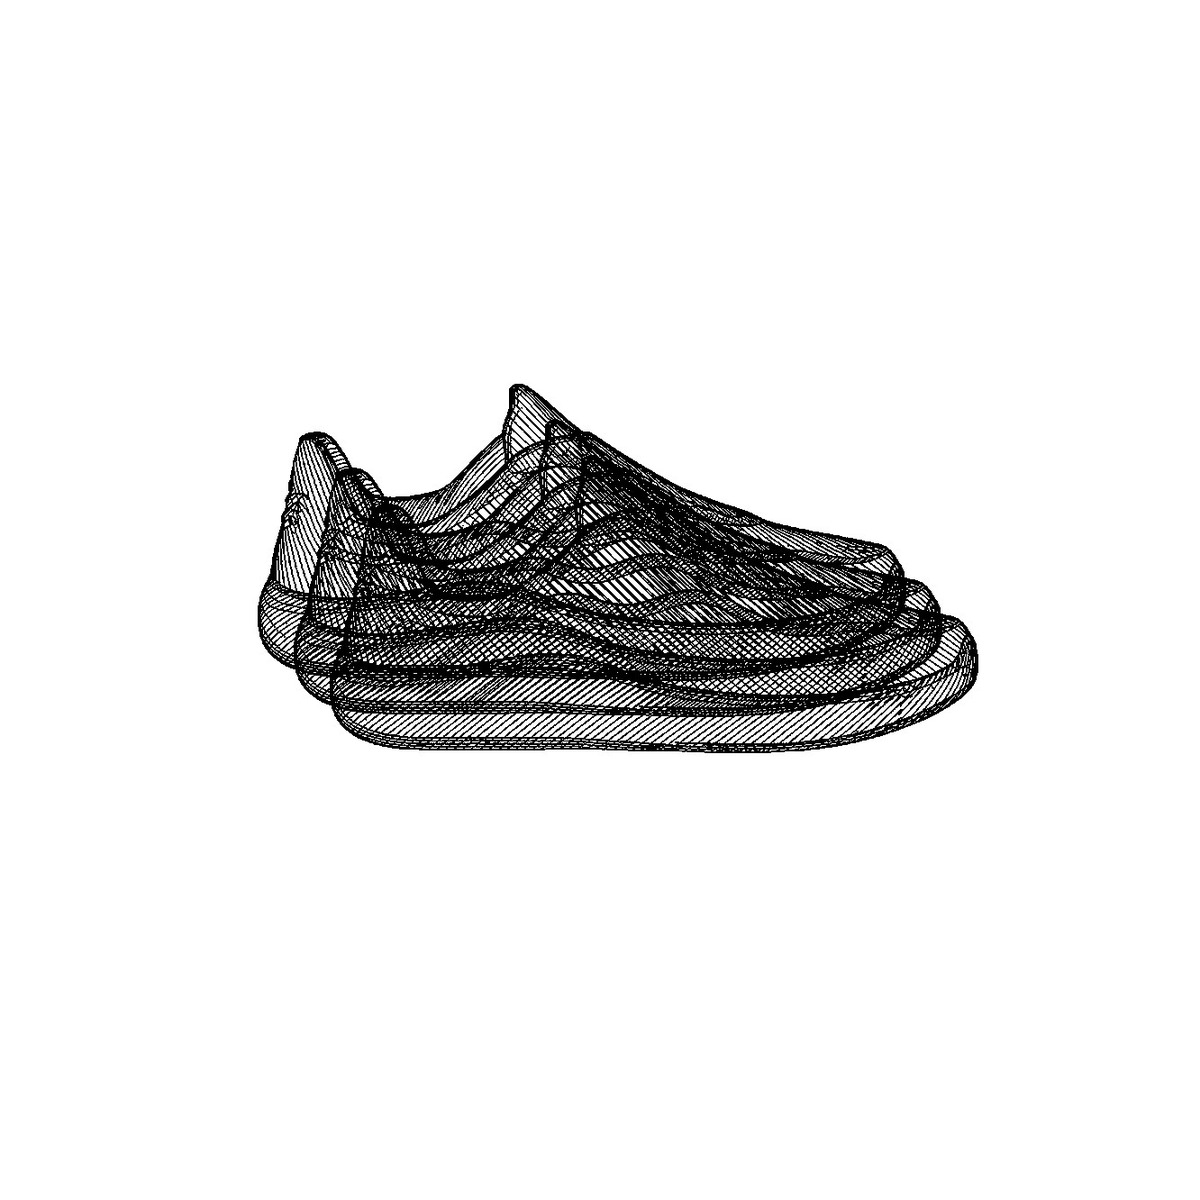
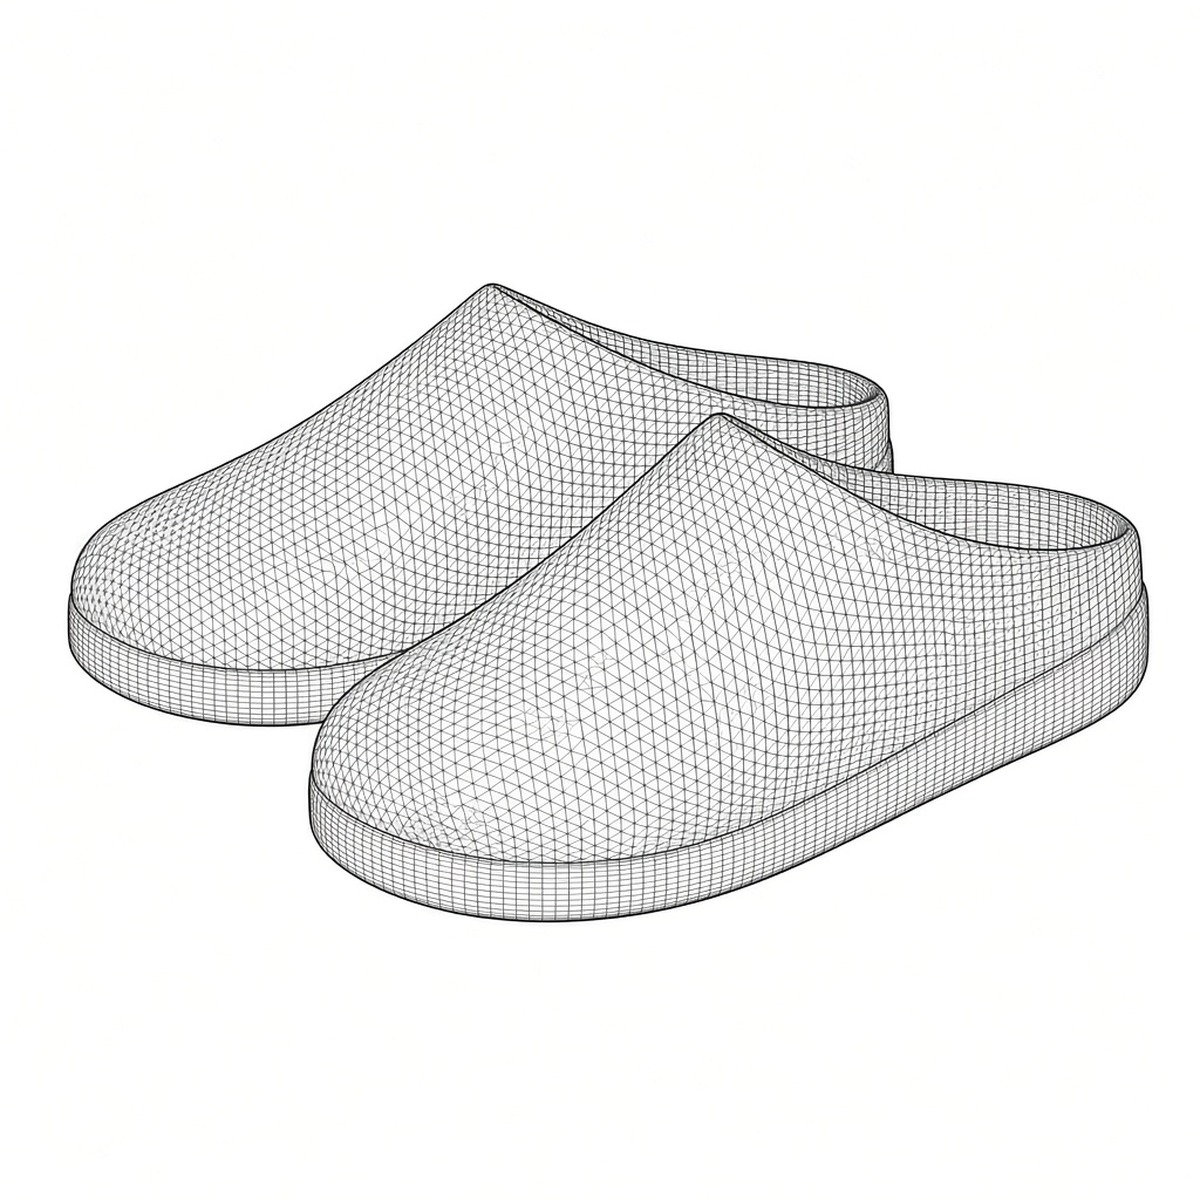
Lead Voronyz STL with a slip-on wireframe mesh, then product photos.
Replace the listing art with an open-back Slip On CAD outline so the
file reads as an STL, and append real Slip On shots so the PDP gallery
reveals what you are buying after you open and scroll.

Changed region(s): [[0.0308, 0.2158, 0.9558, 0.7708]]

diff --git a/web/src/lib/stlFiles.test.ts b/web/src/lib/stlFiles.test.ts
@@ -5,6 +5,7 @@ import {
   STL_FILES_IMAGES,
   STL_FILES_NAME,
   STL_FILES_PRICE_CENTS,
+  STL_FILES_PRODUCT_PREVIEW_IMAGES,
   STL_FILES_SLUG,
   STL_FILES_THUMBNAIL_URL,
   STL_FILES_VARIANTS,
@@ -24,16 +25,26 @@ test("STL listing is Voronyz STL at $1 per shoe file", () => {
   assert.equal(orderIncludesStlDownload([{ name: "Slip Ons" }]), false);
 });
 
-test("STL thumbnail uses padded CAD wireframe art (not a product photo path)", () => {
+test("STL thumbnail is wireframe art; product photos come after for gallery scroll", () => {
   assert.equal(STL_FILES_THUMBNAIL_URL, "/products/stl-files/cover.jpg");
   assert.equal(STL_FILES_ALT_IMAGE_URL, "/products/stl-files/alt.jpg");
-  assert.deepEqual([...STL_FILES_IMAGES], [
-    "/products/stl-files/cover.jpg",
-    "/products/stl-files/alt.jpg",
-  ]);
-  // Listing art stays on the dedicated stl-files wireframe assets — never Slip On product photos.
+  assert.equal(STL_FILES_IMAGES[0], STL_FILES_THUMBNAIL_URL);
+  assert.equal(STL_FILES_IMAGES[1], STL_FILES_ALT_IMAGE_URL);
+  // Listing art stays on the dedicated stl-files wireframe assets.
   assert.equal(STL_FILES_THUMBNAIL_URL.includes("/products/slip-ons/"), false);
   assert.equal(STL_FILES_ALT_IMAGE_URL.includes("/products/slip-ons/"), false);
+  // After click, shoppers can scroll past the mesh to real Slip On photos.
+  assert.deepEqual(
+    [...STL_FILES_IMAGES.slice(2)],
+    [...STL_FILES_PRODUCT_PREVIEW_IMAGES]
+  );
+  assert.ok(STL_FILES_PRODUCT_PREVIEW_IMAGES.length >= 3);
+  assert.equal(
+    STL_FILES_PRODUCT_PREVIEW_IMAGES.every((src) =>
+      src.startsWith("/products/slip-ons/")
+    ),
+    true
+  );
 });
 
 test("only Slip Ons has an STL file; others are out of stock and Magikid/insoles are gone", () => {

diff --git a/web/src/lib/stlFiles.ts b/web/src/lib/stlFiles.ts
@@ -6,10 +6,25 @@ export const STL_FILES_NAME = "Voronyz STL";
 /** Each shoe file is $1. Buying another shoe is another dollar. */
 export const STL_FILES_PRICE_CENTS = 100;
 
-/** CAD wireframe art — reads as an STL file, not a product photo. cover/alt are padded so the mesh isn’t clipped top/bottom. */
+/**
+ * CAD wireframe art leads — reads as an STL file, not a product photo.
+ * Real Slip On photos follow so shoppers can scroll the gallery to see
+ * what they’re printing after they open the listing.
+ */
 export const STL_FILES_THUMBNAIL_URL = "/products/stl-files/cover.jpg";
 export const STL_FILES_ALT_IMAGE_URL = "/products/stl-files/alt.jpg";
-export const STL_FILES_IMAGES = [STL_FILES_THUMBNAIL_URL, STL_FILES_ALT_IMAGE_URL] as const;
+/** Product photos shown after the wireframe on the PDP gallery. */
+export const STL_FILES_PRODUCT_PREVIEW_IMAGES = [
+  "/products/slip-ons/InShot_20260405_203151152.jpg",
+  "/products/slip-ons/InShot_20260405_203425292.jpg",
+  "/products/slip-ons/listing-cover.jpg",
+  "/products/slip-ons/InShot_20260405_203601045.jpg",
+] as const;
+export const STL_FILES_IMAGES = [
+  STL_FILES_THUMBNAIL_URL,
+  STL_FILES_ALT_IMAGE_URL,
+  ...STL_FILES_PRODUCT_PREVIEW_IMAGES,
+] as const;
 
 export const STL_FILES_DESCRIPTION_SHORT =
   "Print files for the Voronyz shoes. Pick a shoe — each file is $1.";

diff --git a/web/src/app/products/ProductsContent.tsx b/web/src/app/products/ProductsContent.tsx
@@ -8,7 +8,11 @@ import { getHealthCatalogSeed, TRAIL_MIX_SLUG } from "@/lib/trailMix";
 import SoftImage from "@/components/ui/SoftImage";
 import LogoLoader from "@/components/ui/LogoLoader";
 import { FILAMENT_SLUG, FILAMENT_THUMBNAIL_URL, getAccessoryCatalogSeed } from "@/lib/filament";
-import { STL_FILES_SLUG } from "@/lib/stlFiles";
+import {
+  STL_FILES_ALT_IMAGE_URL,
+  STL_FILES_SLUG,
+  STL_FILES_THUMBNAIL_URL,
+} from "@/lib/stlFiles";
 import { APPAREL_CATALOG, apparelCoverObjectPositionClass } from "@/lib/apparel";
 import ApparelProductGrid, {
   type ApparelGridProduct,
@@ -82,7 +86,9 @@ const productMeta: Record<string, {
     altImage: MAGIKID_SHOES_THUMBNAIL_URL,
   },
   "tpu-90a-filament": {},
-    [STL_FILES_SLUG]: {},
+  [STL_FILES_SLUG]: {
+    altImage: STL_FILES_ALT_IMAGE_URL,
+  },
 };
 
 function cardMetaForSlug(slug: string) {
@@ -342,6 +348,8 @@ export default function ProductsContent({
       ? GATORS_THUMBNAIL_URL
       : slugKey === FILAMENT_SLUG
       ? FILAMENT_THUMBNAIL_URL
+      : slugKey === STL_FILES_SLUG
+      ? STL_FILES_THUMBNAIL_URL
       : isV3
       ? "/products/v3-slides/InShot_20260212_194352014.jpg"
       : (p.thumbnail || images[0]);

diff --git a/web/src/app/products/[slug]/page.tsx b/web/src/app/products/[slug]/page.tsx
@@ -62,11 +62,13 @@ import {
   FILAMENT_THUMBNAIL_URL,
 } from "@/lib/filament";
 import {
+  STL_FILES_ALT_IMAGE_URL,
   STL_FILES_DESCRIPTION,
   STL_FILES_HOW_ITS_MADE,
   STL_FILES_IMAGES,
   STL_FILES_NAME,
   STL_FILES_SLUG,
+  STL_FILES_THUMBNAIL_URL,
   STL_SHOE_FILES,
   stlFilesCatalogProduct,
 } from "@/lib/stlFiles";
@@ -824,7 +826,8 @@ export async function generateMetadata({ params }: { params: Promise<{ slug: str
   if (slug === STL_FILES_SLUG) {
     const title = `${STL_FILES_NAME} – Voronyz`;
     const description = STL_FILES_DESCRIPTION;
-    const images = [...STL_FILES_IMAGES];
+    // Share cards stay on the wireframe; product photos live in the PDP gallery.
+    const images = [STL_FILES_THUMBNAIL_URL, STL_FILES_ALT_IMAGE_URL];
     return {
       title,
       description,
